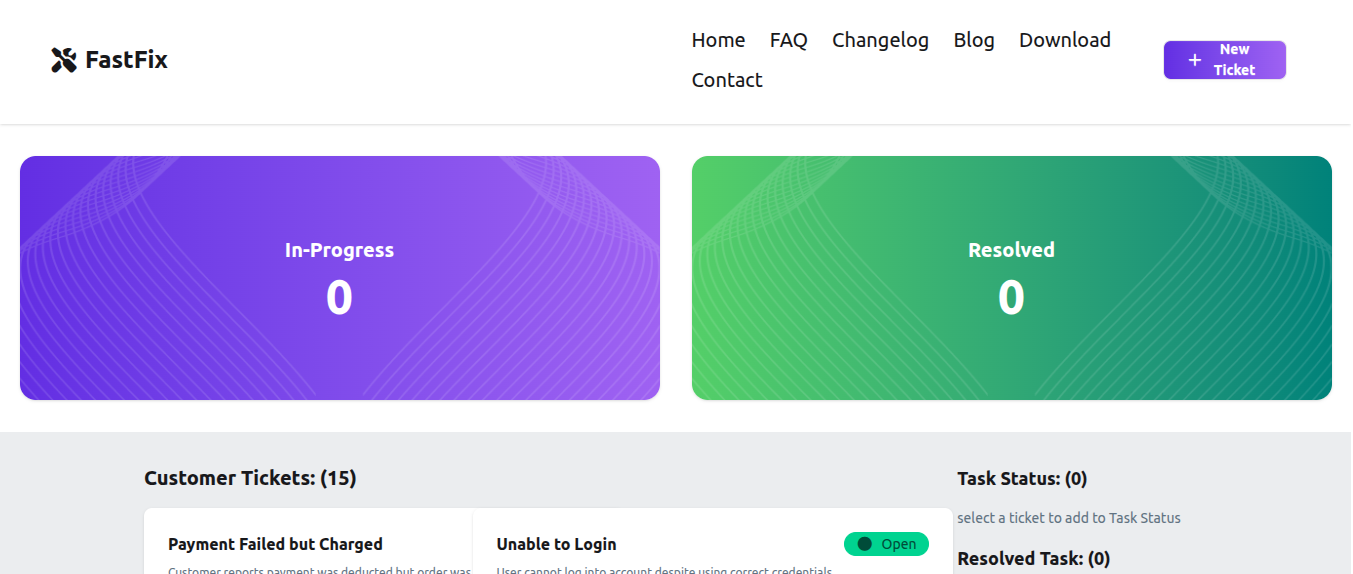
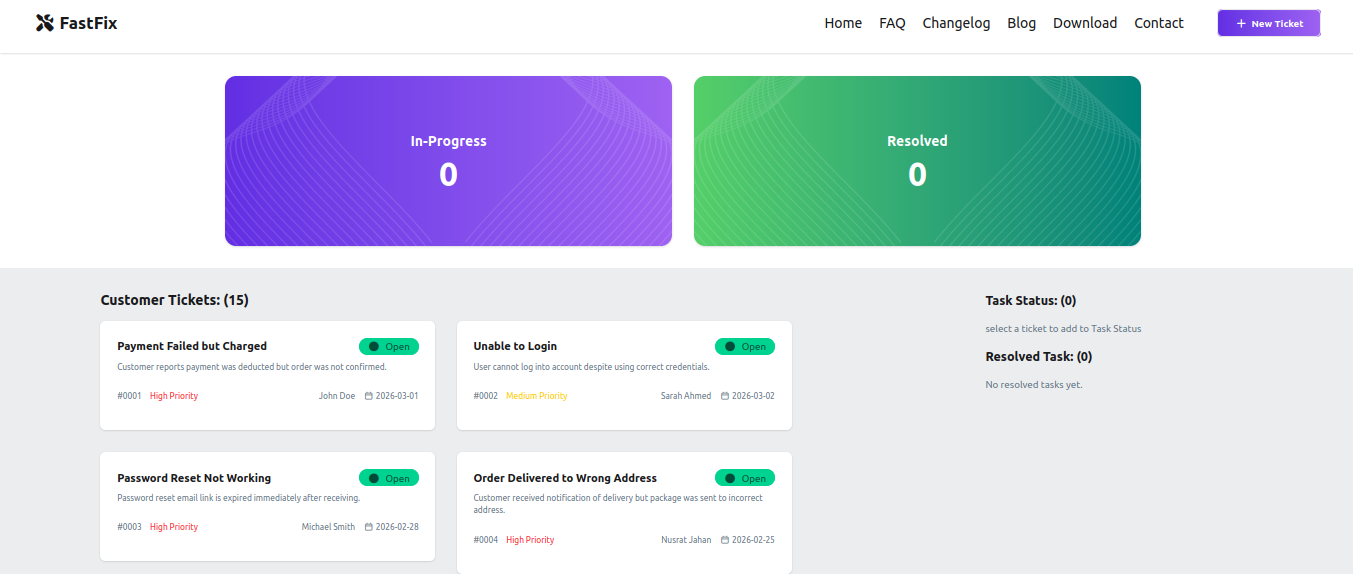
improve some challenges

diff --git a/src/Components/Projects/ProjectDetails.jsx b/src/Components/Projects/ProjectDetails.jsx
@@ -6,6 +6,8 @@ import {
     FaExternalLinkAlt,
     FaGithub,
     FaCheckCircle,
+    FaHtml5,
+    FaCss3Alt,
 } from "react-icons/fa";
 
 import {
@@ -14,22 +16,32 @@ import {
 } from "react-icons/fa";
 
 import {
+    SiDaisyui,
     SiExpress,
     SiFirebase,
     SiJsonwebtokens,
     SiMongodb,
+    SiReactrouter,
     SiTailwindcss,
 } from "react-icons/si";
 import useScrollTop from "../../Hooks/useScrollTop";
 import { useEffect } from "react";
+import { BsJavascript } from "react-icons/bs";
 
 const iconMap = {
-    React: <FaReact className="text-sky-400" />,
-    "Express.js": <SiExpress className="text-gray-300" />,
-    MongoDB: <SiMongodb className="text-green-500" />,
-    Firebase: <SiFirebase className="text-yellow-400" />,
-    JWT: <SiJsonwebtokens className="text-orange-400" />,
-    "Tailwind CSS": <SiTailwindcss className="text-cyan-400" />,
+    HTML: <FaHtml5 />,
+     CSS: <FaCss3Alt />,
+     JavaScript: <BsJavascript></BsJavascript>,
+     React: <FaReact className="text-sky-400" />,
+     ReactRouter: <SiReactrouter className="text-sky-400" />,
+     "Express.js": <SiExpress className="text-gray-300" />,
+     MongoDB: <SiMongodb className="text-green-500" />,
+     Firebase: <SiFirebase className="text-yellow-400" />,
+     "Tailwind CSS": <SiTailwindcss className="text-cyan-400" />,
+     JWT: <SiJsonwebtokens className="text-orange-400" />,
+     Recharts: <SiJsonwebtokens className="text-orange-400" />,
+     "Sweet Alert": <SiJsonwebtokens className="text-orange-400" />,
+     DaisyUI:<SiDaisyui/>
 };
 
 const ProjectDetails = () => {

diff --git a/src/Components/Projects/projects.js b/src/Components/Projects/projects.js
@@ -40,6 +40,14 @@ const projects = [
             "Role-based dashboard",
             "Booking availability",
             "Responsive UI",
+            "Admin Dashboard statistics",
+            "Customer Dashboard ",
+            "Rental Calculation ",
+            "Revenue Report Generation and download by categories",
+            "Order and Delivery Real Time Status Update",
+            "Invoice Generation",
+            "Wishlist",
+            "Search by categories"
         ],
 
         improvements: [
@@ -86,6 +94,8 @@ const projects = [
             "Filtering",
             "Responsive dashboard",
             "CRUD operations",
+            "Rechart Developement",
+            "LocalStorage set up"
         ],
 
         improvements: [
@@ -110,6 +120,7 @@ const projects = [
             "HTML",
             "CSS",
             "JavaScript",
+            "React",
             "Node.js",
             "Tailwind CSS",
             "DaisyUI",
@@ -124,8 +135,9 @@ const projects = [
         challenges: [
             "Ticket workflow",
             "Role permissions",
-            "Real-time status updates",
-            "Dashboard statistics",
+            "Real Time increament and Decreament",
+
+            
         ],
 
         improvements: [